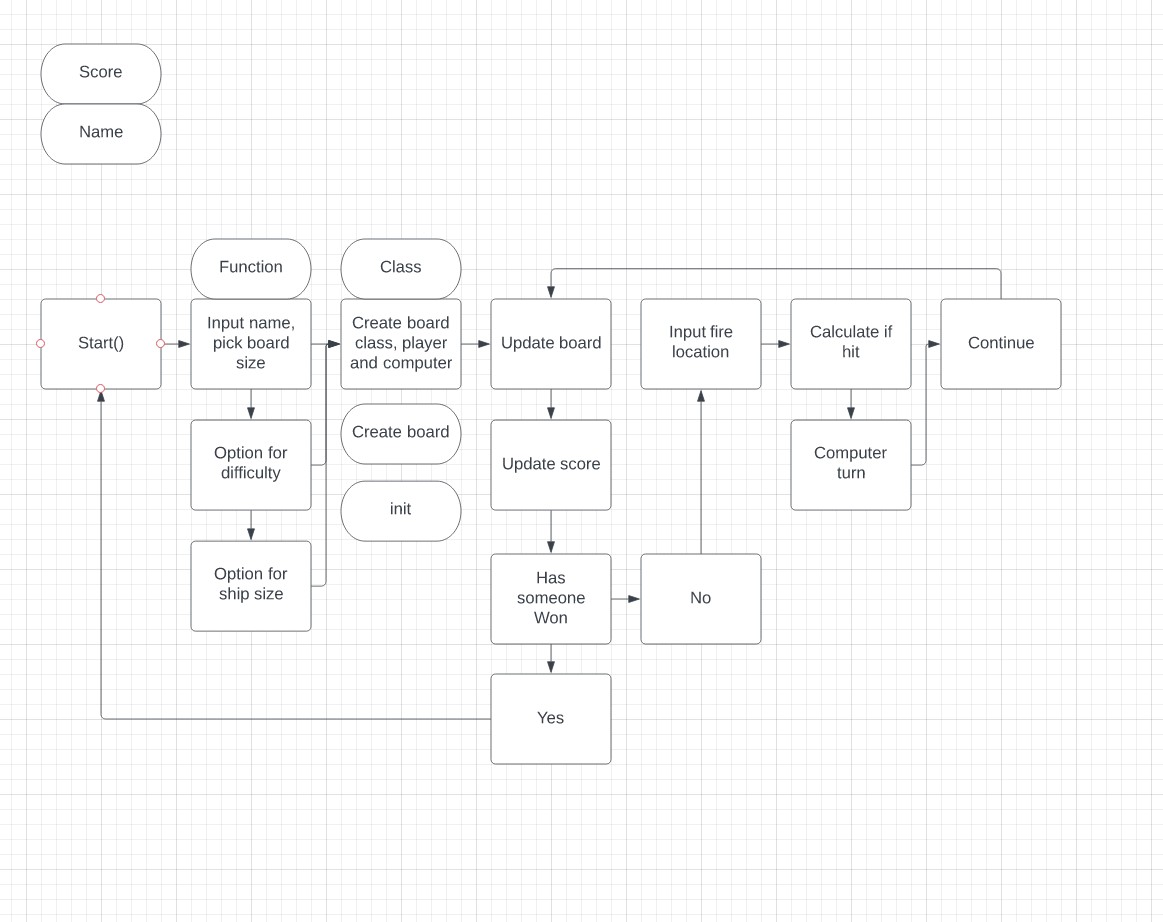
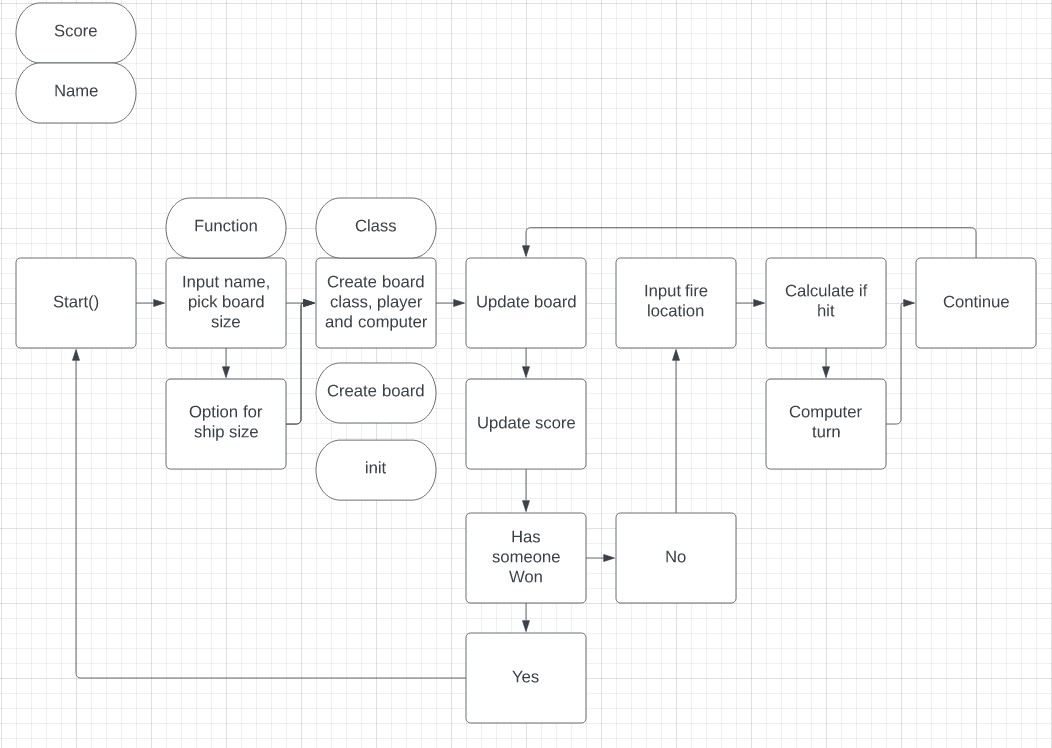
Change add ship function to be part of board class

diff --git a/run.py b/run.py
@@ -19,6 +19,20 @@ class Board:
         self.shots = []
         self.score = 0
 
+        for ship in range(int(self.num_ships)):
+            self.add_ships_to_board()
+
+    def add_ships_to_board(self):
+        """
+        Add player and computer ships to there boards using random.
+        Also checks there is not a ship already there
+        """
+        while len(self.ships) < self.num_ships:
+            num1 = return_num(self.size)
+            num2 = return_num(self.size)
+            if not self.return_ships(num1, num2):
+                self.add_ship(num1, num2)
+
     def create_board(self):
         """
         Create the board on the screen using blank spaces.
@@ -79,6 +93,27 @@ class Board:
         return False
 
 
+def set_name():
+    """
+    Gets player input for name and returns the name, if no
+    name selcted default will be set to player
+    """
+
+    while True:
+
+        name = input("Please enter your name(Default: Player):\n")
+        if int(len(name)) <= 10:
+            break
+
+        print("Name to long, please try again")
+
+        if not name:
+
+            name = "Player"
+
+    return name
+
+
 def validate_input(input, max, type):
     """
     Checkes the input and validates it as int and sting or out of scope
@@ -106,18 +141,6 @@ def validate_input(input, max, type):
         return False
 
     return True
-
-
-def add_ships_to_board(board):
-    """
-    Add player and computer ships to there boards using random.
-    Also checks there is not a ship already there
-    """
-    while len(board.ships) < board.num_ships:
-        num1 = return_num(board.size)
-        num2 = return_num(board.size)
-        if not board.return_ships(num1, num2):
-            board.add_ship(num1, num2)
 
 
 def return_num(num):
@@ -165,6 +188,8 @@ def play_game(player, computer, size, num_ships):
             if not computer.return_shots(int(x), int(y)):
                 player_outcome = computer.take_shot(int(x), int(y))
                 break
+            else:
+                print("Already fired there, try again")
 
         while True:
             xx = return_num(size)
@@ -220,38 +245,22 @@ def start_game():
     """
 
     print('Welcome to battleships, please have fun.')
+    name = set_name()
 
     while True:
 
-        name = input("Please enter your name:\n")
-        if int(len(name)) <= 10:
-            break
-
-        print("Name to long, please try again")
-
-    if not name:
-
-        name = "Player"
-
-    while True:
-
-        size = input("Please pick board size, Min 3: Max 8:\n")
+        size = input("Please pick board size, Between 3 and 8:\n")
         if validate_input(size, 0, "start"):
             break
 
     while True:
 
-        ships = input("Please select number of ships, Min 3: Max 8:\n")
+        ships = input("Please select number of ships, Between 3 and 8:\n")
         if validate_input(ships, 0, "start"):
             break
 
     player_b = Board(name, int(size), int(ships), type="Player")
     computer_b = Board("Computer", int(size), int(ships), type="Computer")
-
-    for ship in range(int(ships)):
-        add_ships_to_board(player_b)
-        add_ships_to_board(computer_b)
-
     play_game(player_b, computer_b, int(size), int(ships))
 
 

diff --git a/README.md b/README.md
@@ -41,7 +41,7 @@ The game will continue like this until the player or computer sinks all the othe
 
 ![Header](docs/wireframe/options.jpg)
 
-- player will play agest the computer.
+- player will play against the computer.
 - player can input where there shots will go.
 
 ![Header](docs/wireframe/firstturn.jpg)
@@ -109,7 +109,8 @@ __Accessibility__
     - Deployment from heroku involved signing up to the site, then you need to click create your first app. to deploy my project i went to settings tab, click on add config vars, click on add and set to PORT with value 8000, I also had to set the build packs for Python then Node.js, once done i then clicked on the deploy tab linked to my github, selected the main branch then deployed, i set this to automatic deploys so when ever i made a change it would do it.
 
 - GitPod
-    - Deployment from gitpod was done by adding all changed with git add ., this then allowed me to commit the changes by doing git commit -m "changes in here", once i was happy with that i could then push them to github, using git push command, as i set up heroku with auto deploy it would pull the updates sent from github.
+    - Deployment from gitpod was done by adding changes to the python3 command line, command to add changes git add ., adds each file to the awating commit, then type in commit -m "changes in here", once i was happy with that i could then push them to github, using git push command, as i set up heroku with auto deploy it would pull the updates sent from github.
+    - python3 command line > git add ./or file name > git commit -m "information in here" > git push to send changes to github
 
 ## Credits
 
